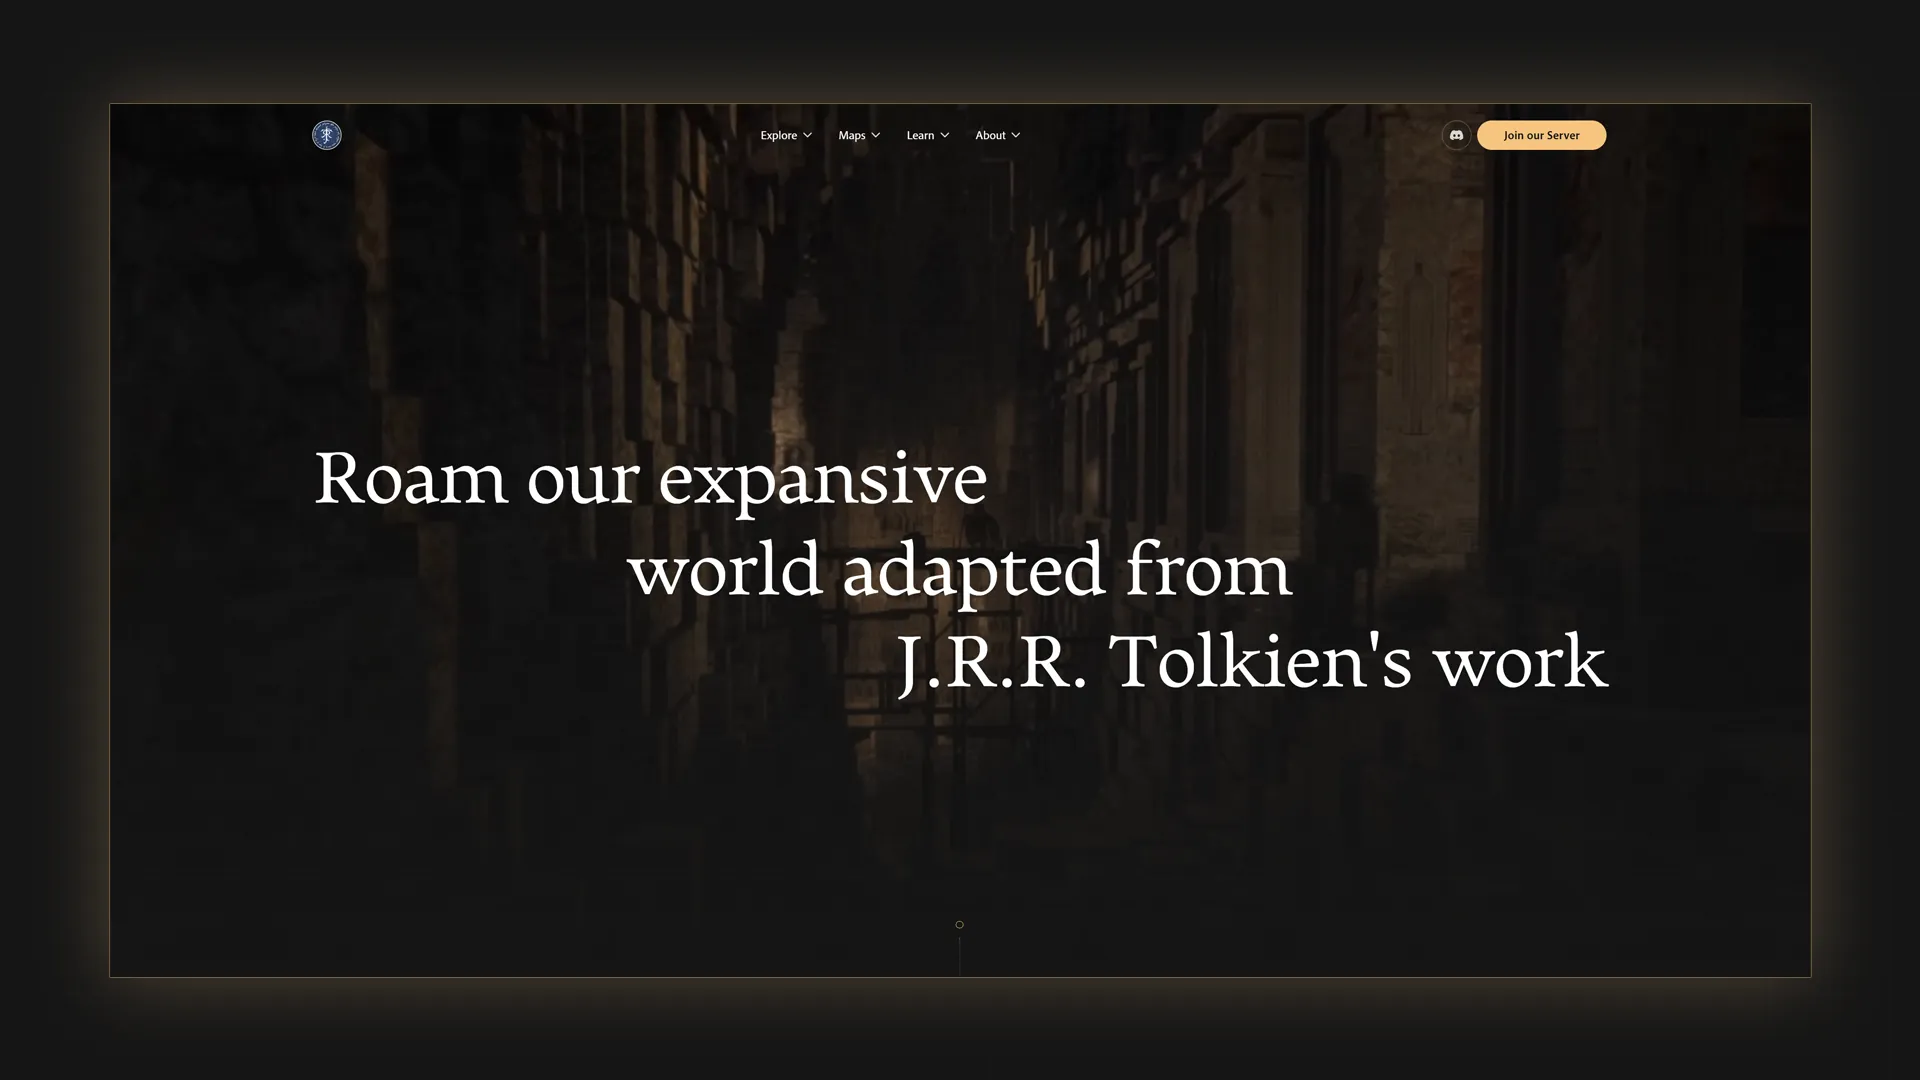
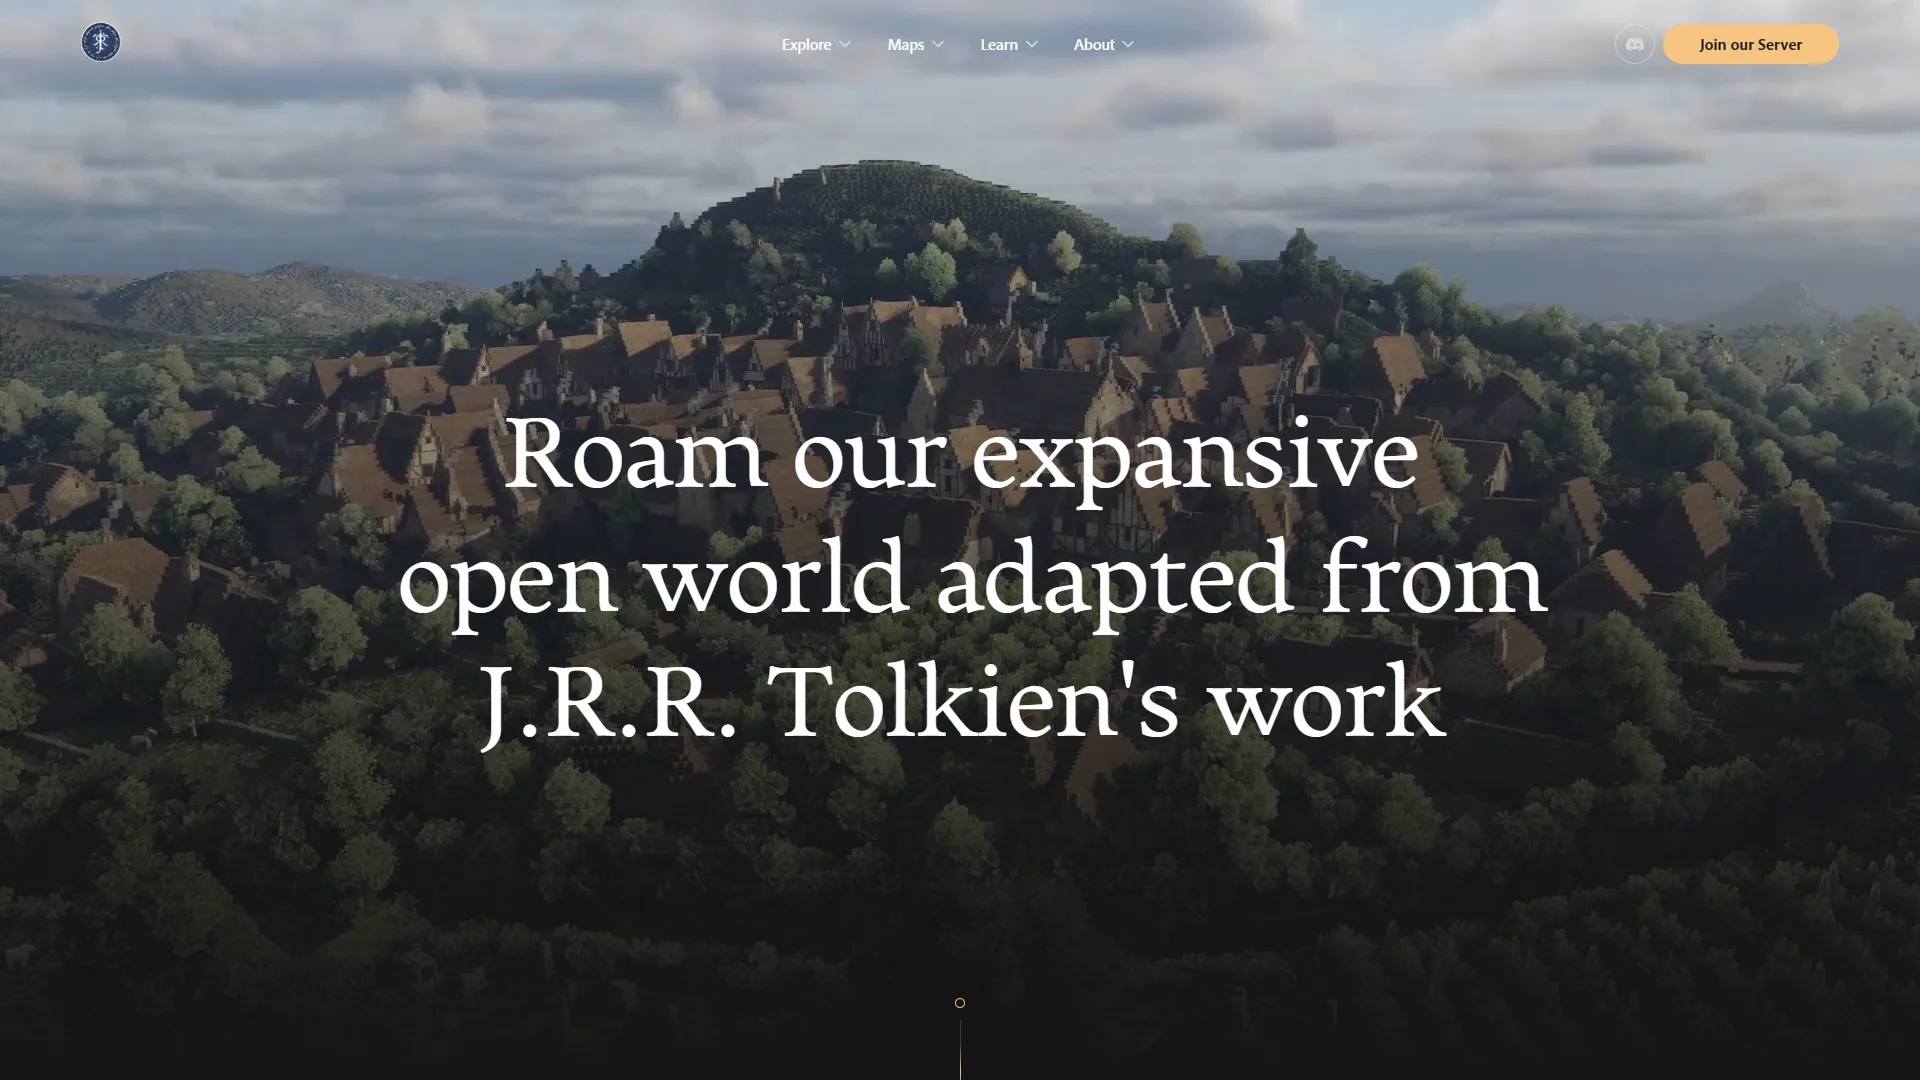
Refonte d'ArdaCraft : nouvelle image a la une, capture de la page d'accueil d'ardacraft.me

diff --git a/experiments/ardacraft-map.html b/experiments/ardacraft-map.html
@@ -184,7 +184,7 @@
         <!-- FULL-WIDTH: READ NEXT SECTION — populated by article-page.js -->
         <section class="read-next-section">
             <h2 class="read-next-title" data-i18n="read_next">À lire ensuite</h2>
-            <div class="suite-grille" id="suite-grille"><a class="read-next-card" href="ardacraft-social" id="read-next-link"><div class="card-image"><img src="/media/ardacraft-social-featured-image.webp" alt="Abonnés Instagram d’ArdaCraft, de 9&nbsp;877 en janvier 2024 à 115&nbsp;579 en août" loading="lazy"></div><div class="card-content"><h3 class="card-title">Emprunter les codes du voyage pour filmer la Terre du Milieu&nbsp;: 27 millions de vues en sept mois</h3><p class="card-desc">Je voulais m’entraîner à faire des vidéos. En filmant les décors d’ArdaCraft comme des paysages, avec les codes des Reels de voyage, 24 vidéos ont cumulé 27,3 millions de vues.</p></div></a><a class="read-next-card" href="ardacraft"><div class="card-image"><img src="/media/ardacraft-redesign-featured-image.webp" alt="Aperçu de la refonte du site ArdaCraft" loading="lazy"></div><div class="card-content"><h3 class="card-title">De Webflow à une architecture décentralisée&nbsp;: comment j'ai repensé le site d'ArdaCraft</h3><p class="card-desc">Participer au succès d'une communauté de passionnés tout en me challengeant et en développant de nouvelles compétences : retour sur un chantier de 150 heures.</p></div></a></div>
+            <div class="suite-grille" id="suite-grille"><a class="read-next-card" href="ardacraft-social" id="read-next-link"><div class="card-image"><img src="/media/ardacraft-social-featured-image.webp" alt="Abonnés Instagram d’ArdaCraft, de 9&nbsp;877 en janvier 2024 à 115&nbsp;579 en août" loading="lazy"></div><div class="card-content"><h3 class="card-title">Emprunter les codes du voyage pour filmer la Terre du Milieu&nbsp;: 27 millions de vues en sept mois</h3><p class="card-desc">Je voulais m’entraîner à faire des vidéos. En filmant les décors d’ArdaCraft comme des paysages, avec les codes des Reels de voyage, 24 vidéos ont cumulé 27,3 millions de vues.</p></div></a><a class="read-next-card" href="ardacraft"><div class="card-image"><img src="/media/ardacraft-redesign-featured-image.webp" alt="La page d’accueil d’ArdaCraft après la refonte : un village de la Terre du Milieu sous le titre « Roam our expansive open world adapted from J.R.R. Tolkien’s work »" loading="lazy"></div><div class="card-content"><h3 class="card-title">De Webflow à une architecture décentralisée&nbsp;: comment j'ai repensé le site d'ArdaCraft</h3><p class="card-desc">Participer au succès d'une communauté de passionnés tout en me challengeant et en développant de nouvelles compétences : retour sur un chantier de 150 heures.</p></div></a></div>
         </section>
 
     </main>

diff --git a/experiments/ardacraft-social.html b/experiments/ardacraft-social.html
@@ -155,7 +155,7 @@
         <!-- FULL-WIDTH: READ NEXT SECTION — populated by article-page.js -->
         <section class="read-next-section">
             <h2 class="read-next-title" data-i18n="read_next">À lire ensuite</h2>
-            <div class="suite-grille" id="suite-grille"><a class="read-next-card" href="ardacraft" id="read-next-link"><div class="card-image"><img src="/media/ardacraft-redesign-featured-image.webp" alt="Aperçu de la refonte du site ArdaCraft" loading="lazy"></div><div class="card-content"><h3 class="card-title">De Webflow à une architecture décentralisée&nbsp;: comment j'ai repensé le site d'ArdaCraft</h3><p class="card-desc">Participer au succès d'une communauté de passionnés tout en me challengeant et en développant de nouvelles compétences : retour sur un chantier de 150 heures.</p></div></a><a class="read-next-card" href="ardacraft-map"><div class="card-image"><img src="/media/ardacraft-map-carte-interactive.webp" alt="La carte interactive d’ArdaCraft, ouverte sur la fiche d’Edoras, au Rohan" loading="lazy"></div><div class="card-content"><h3 class="card-title">Comment j'ai utilisé le SEO pour faire grandir une communauté de passionnés</h3><p class="card-desc">Comment j'ai transformé plus d'un million de recherches annuelles autour de la Terre du Milieu en canal d'acquisition pour ArdaCraft, grâce à une carte interactive.</p></div></a></div>
+            <div class="suite-grille" id="suite-grille"><a class="read-next-card" href="ardacraft" id="read-next-link"><div class="card-image"><img src="/media/ardacraft-redesign-featured-image.webp" alt="La page d’accueil d’ArdaCraft après la refonte : un village de la Terre du Milieu sous le titre « Roam our expansive open world adapted from J.R.R. Tolkien’s work »" loading="lazy"></div><div class="card-content"><h3 class="card-title">De Webflow à une architecture décentralisée&nbsp;: comment j'ai repensé le site d'ArdaCraft</h3><p class="card-desc">Participer au succès d'une communauté de passionnés tout en me challengeant et en développant de nouvelles compétences : retour sur un chantier de 150 heures.</p></div></a><a class="read-next-card" href="ardacraft-map"><div class="card-image"><img src="/media/ardacraft-map-carte-interactive.webp" alt="La carte interactive d’ArdaCraft, ouverte sur la fiche d’Edoras, au Rohan" loading="lazy"></div><div class="card-content"><h3 class="card-title">Comment j'ai utilisé le SEO pour faire grandir une communauté de passionnés</h3><p class="card-desc">Comment j'ai transformé plus d'un million de recherches annuelles autour de la Terre du Milieu en canal d'acquisition pour ArdaCraft, grâce à une carte interactive.</p></div></a></div>
         </section>
 
     </main>

diff --git a/en/experiments/ardacraft-map.html b/en/experiments/ardacraft-map.html
@@ -184,7 +184,7 @@
         <!-- FULL-WIDTH: READ NEXT SECTION — populated by article-page.js -->
         <section class="read-next-section">
             <h2 class="read-next-title" data-i18n="read_next">More experiments</h2>
-            <div class="suite-grille" id="suite-grille"><a class="read-next-card" href="ardacraft-social" id="read-next-link"><div class="card-image"><img src="/media/ardacraft-social-featured-image.webp" alt="Abonnés Instagram d’ArdaCraft, de 9&nbsp;877 en janvier 2024 à 115&nbsp;579 en août" loading="lazy"></div><div class="card-content"><h3 class="card-title">Borrowing travel-reel grammar to film Middle-earth: 27 million views in seven months</h3><p class="card-desc">I wanted to practise making videos. By filming ArdaCraft’s builds like landscapes, borrowing the grammar of travel Reels, 24 videos gathered 27.3 million views.</p></div></a><a class="read-next-card" href="ardacraft"><div class="card-image"><img src="/media/ardacraft-redesign-featured-image.webp" alt="Aperçu de la refonte du site ArdaCraft" loading="lazy"></div><div class="card-content"><h3 class="card-title">From Webflow to a Decentralized Architecture: How I Rethought the ArdaCraft Website</h3><p class="card-desc">Contributing to the success of a passionate community while challenging myself and building new skills: a look back at a 150-hour project.</p></div></a></div>
+            <div class="suite-grille" id="suite-grille"><a class="read-next-card" href="ardacraft-social" id="read-next-link"><div class="card-image"><img src="/media/ardacraft-social-featured-image.webp" alt="Abonnés Instagram d’ArdaCraft, de 9&nbsp;877 en janvier 2024 à 115&nbsp;579 en août" loading="lazy"></div><div class="card-content"><h3 class="card-title">Borrowing travel-reel grammar to film Middle-earth: 27 million views in seven months</h3><p class="card-desc">I wanted to practise making videos. By filming ArdaCraft’s builds like landscapes, borrowing the grammar of travel Reels, 24 videos gathered 27.3 million views.</p></div></a><a class="read-next-card" href="ardacraft"><div class="card-image"><img src="/media/ardacraft-redesign-featured-image.webp" alt="La page d’accueil d’ArdaCraft après la refonte : un village de la Terre du Milieu sous le titre « Roam our expansive open world adapted from J.R.R. Tolkien’s work »" loading="lazy"></div><div class="card-content"><h3 class="card-title">From Webflow to a Decentralized Architecture: How I Rethought the ArdaCraft Website</h3><p class="card-desc">Contributing to the success of a passionate community while challenging myself and building new skills: a look back at a 150-hour project.</p></div></a></div>
         </section>
 
     </main>

diff --git a/en/experiments/ardacraft-social.html b/en/experiments/ardacraft-social.html
@@ -155,7 +155,7 @@
         <!-- FULL-WIDTH: READ NEXT SECTION — populated by article-page.js -->
         <section class="read-next-section">
             <h2 class="read-next-title" data-i18n="read_next">More experiments</h2>
-            <div class="suite-grille" id="suite-grille"><a class="read-next-card" href="ardacraft" id="read-next-link"><div class="card-image"><img src="/media/ardacraft-redesign-featured-image.webp" alt="Aperçu de la refonte du site ArdaCraft" loading="lazy"></div><div class="card-content"><h3 class="card-title">From Webflow to a Decentralized Architecture: How I Rethought the ArdaCraft Website</h3><p class="card-desc">Contributing to the success of a passionate community while challenging myself and building new skills: a look back at a 150-hour project.</p></div></a><a class="read-next-card" href="ardacraft-map"><div class="card-image"><img src="/media/ardacraft-map-carte-interactive.webp" alt="La carte interactive d’ArdaCraft, ouverte sur la fiche d’Edoras, au Rohan" loading="lazy"></div><div class="card-content"><h3 class="card-title">How I Used SEO to Grow a Community of Enthusiasts</h3><p class="card-desc">How I turned over a million annual searches around Middle-earth into a real acquisition channel for ArdaCraft, through an interactive map.</p></div></a></div>
+            <div class="suite-grille" id="suite-grille"><a class="read-next-card" href="ardacraft" id="read-next-link"><div class="card-image"><img src="/media/ardacraft-redesign-featured-image.webp" alt="La page d’accueil d’ArdaCraft après la refonte : un village de la Terre du Milieu sous le titre « Roam our expansive open world adapted from J.R.R. Tolkien’s work »" loading="lazy"></div><div class="card-content"><h3 class="card-title">From Webflow to a Decentralized Architecture: How I Rethought the ArdaCraft Website</h3><p class="card-desc">Contributing to the success of a passionate community while challenging myself and building new skills: a look back at a 150-hour project.</p></div></a><a class="read-next-card" href="ardacraft-map"><div class="card-image"><img src="/media/ardacraft-map-carte-interactive.webp" alt="La carte interactive d’ArdaCraft, ouverte sur la fiche d’Edoras, au Rohan" loading="lazy"></div><div class="card-content"><h3 class="card-title">How I Used SEO to Grow a Community of Enthusiasts</h3><p class="card-desc">How I turned over a million annual searches around Middle-earth into a real acquisition channel for ArdaCraft, through an interactive map.</p></div></a></div>
         </section>
 
     </main>

diff --git a/en/experiments/ardacraft.html b/en/experiments/ardacraft.html
@@ -68,7 +68,7 @@
             </header>
 
             <div class="featured-image-wrapper">
-                <img id="article-cover" src="/media/ardacraft-redesign-featured-image.webp" alt="Aperçu de la refonte du site ArdaCraft" width="1920" height="1080" fetchpriority="high">
+                <img id="article-cover" src="/media/ardacraft-redesign-featured-image.webp" alt="La page d’accueil d’ArdaCraft après la refonte : un village de la Terre du Milieu sous le titre « Roam our expansive open world adapted from J.R.R. Tolkien’s work »" width="1920" height="1080" fetchpriority="high">
             </div>
         </section>
 

diff --git a/experiments/ardacraft.html b/experiments/ardacraft.html
@@ -68,7 +68,7 @@
             </header>
 
             <div class="featured-image-wrapper">
-                <img id="article-cover" src="/media/ardacraft-redesign-featured-image.webp" alt="Aperçu de la refonte du site ArdaCraft" width="1920" height="1080" fetchpriority="high">
+                <img id="article-cover" src="/media/ardacraft-redesign-featured-image.webp" alt="La page d’accueil d’ArdaCraft après la refonte : un village de la Terre du Milieu sous le titre « Roam our expansive open world adapted from J.R.R. Tolkien’s work »" width="1920" height="1080" fetchpriority="high">
             </div>
         </section>
 

diff --git a/scripts/articles-data.js b/scripts/articles-data.js
@@ -133,7 +133,7 @@ window.GUMI_ARTICLES = {
 
     'ardacraft': {
         cover: '/media/ardacraft-redesign-featured-image.webp',
-        coverAlt: 'Aperçu de la refonte du site ArdaCraft',
+        coverAlt: 'La page d’accueil d’ArdaCraft après la refonte : un village de la Terre du Milieu sous le titre « Roam our expansive open world adapted from J.R.R. Tolkien’s work »',
         readNext: 'ardacraft-map',
         published: '2026-07-11',
         title: {

diff --git a/sw.js b/sw.js
@@ -5,7 +5,7 @@
 // deploy is picked up on the next visit; the cache is the offline fallback.
 // One cache for precache + runtime, so a network refresh overwrites the
 // precached copy instead of being shadowed by it.
-const VERSION = 'gumi-sw-v16';
+const VERSION = 'gumi-sw-v17';
 const CACHE_NAME = VERSION;
 
 const CORE_ASSETS = [
